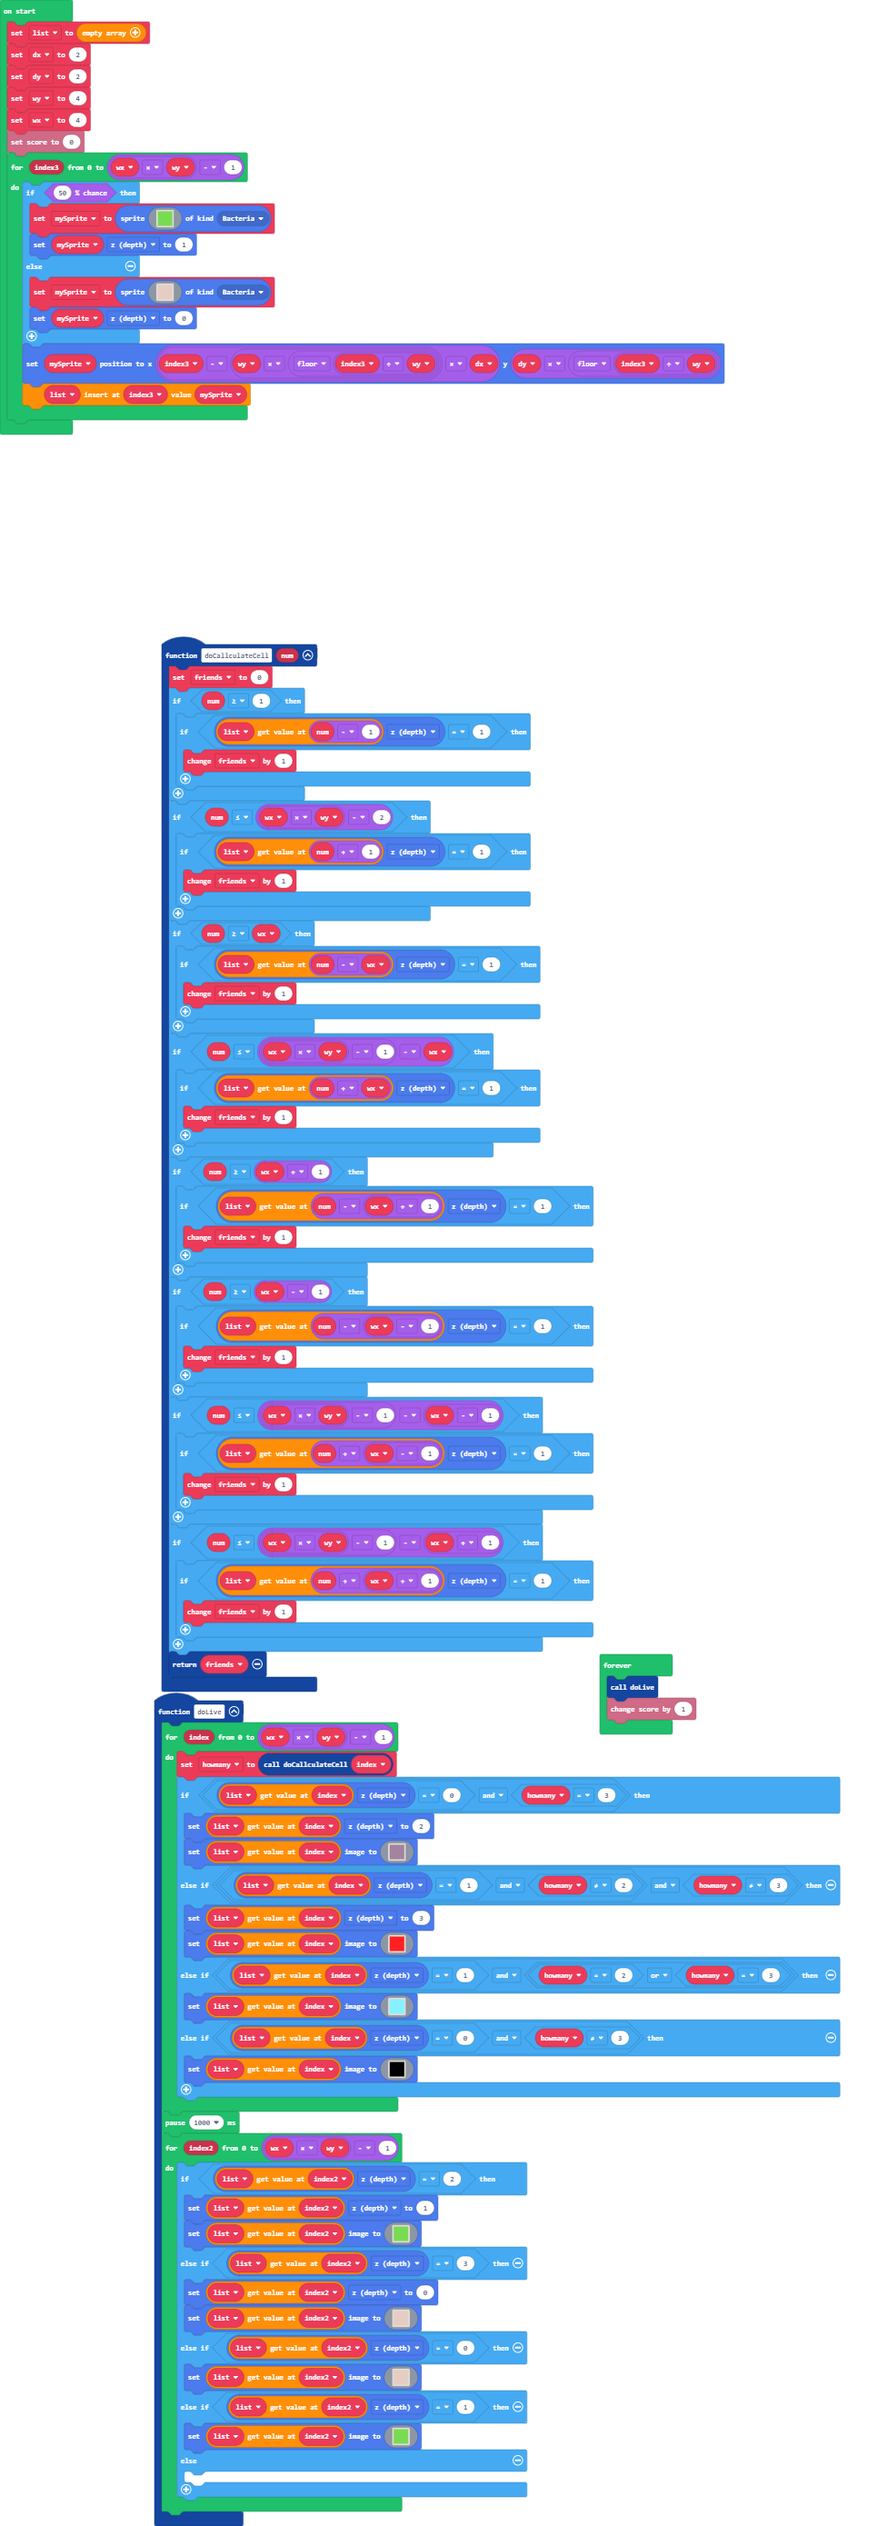
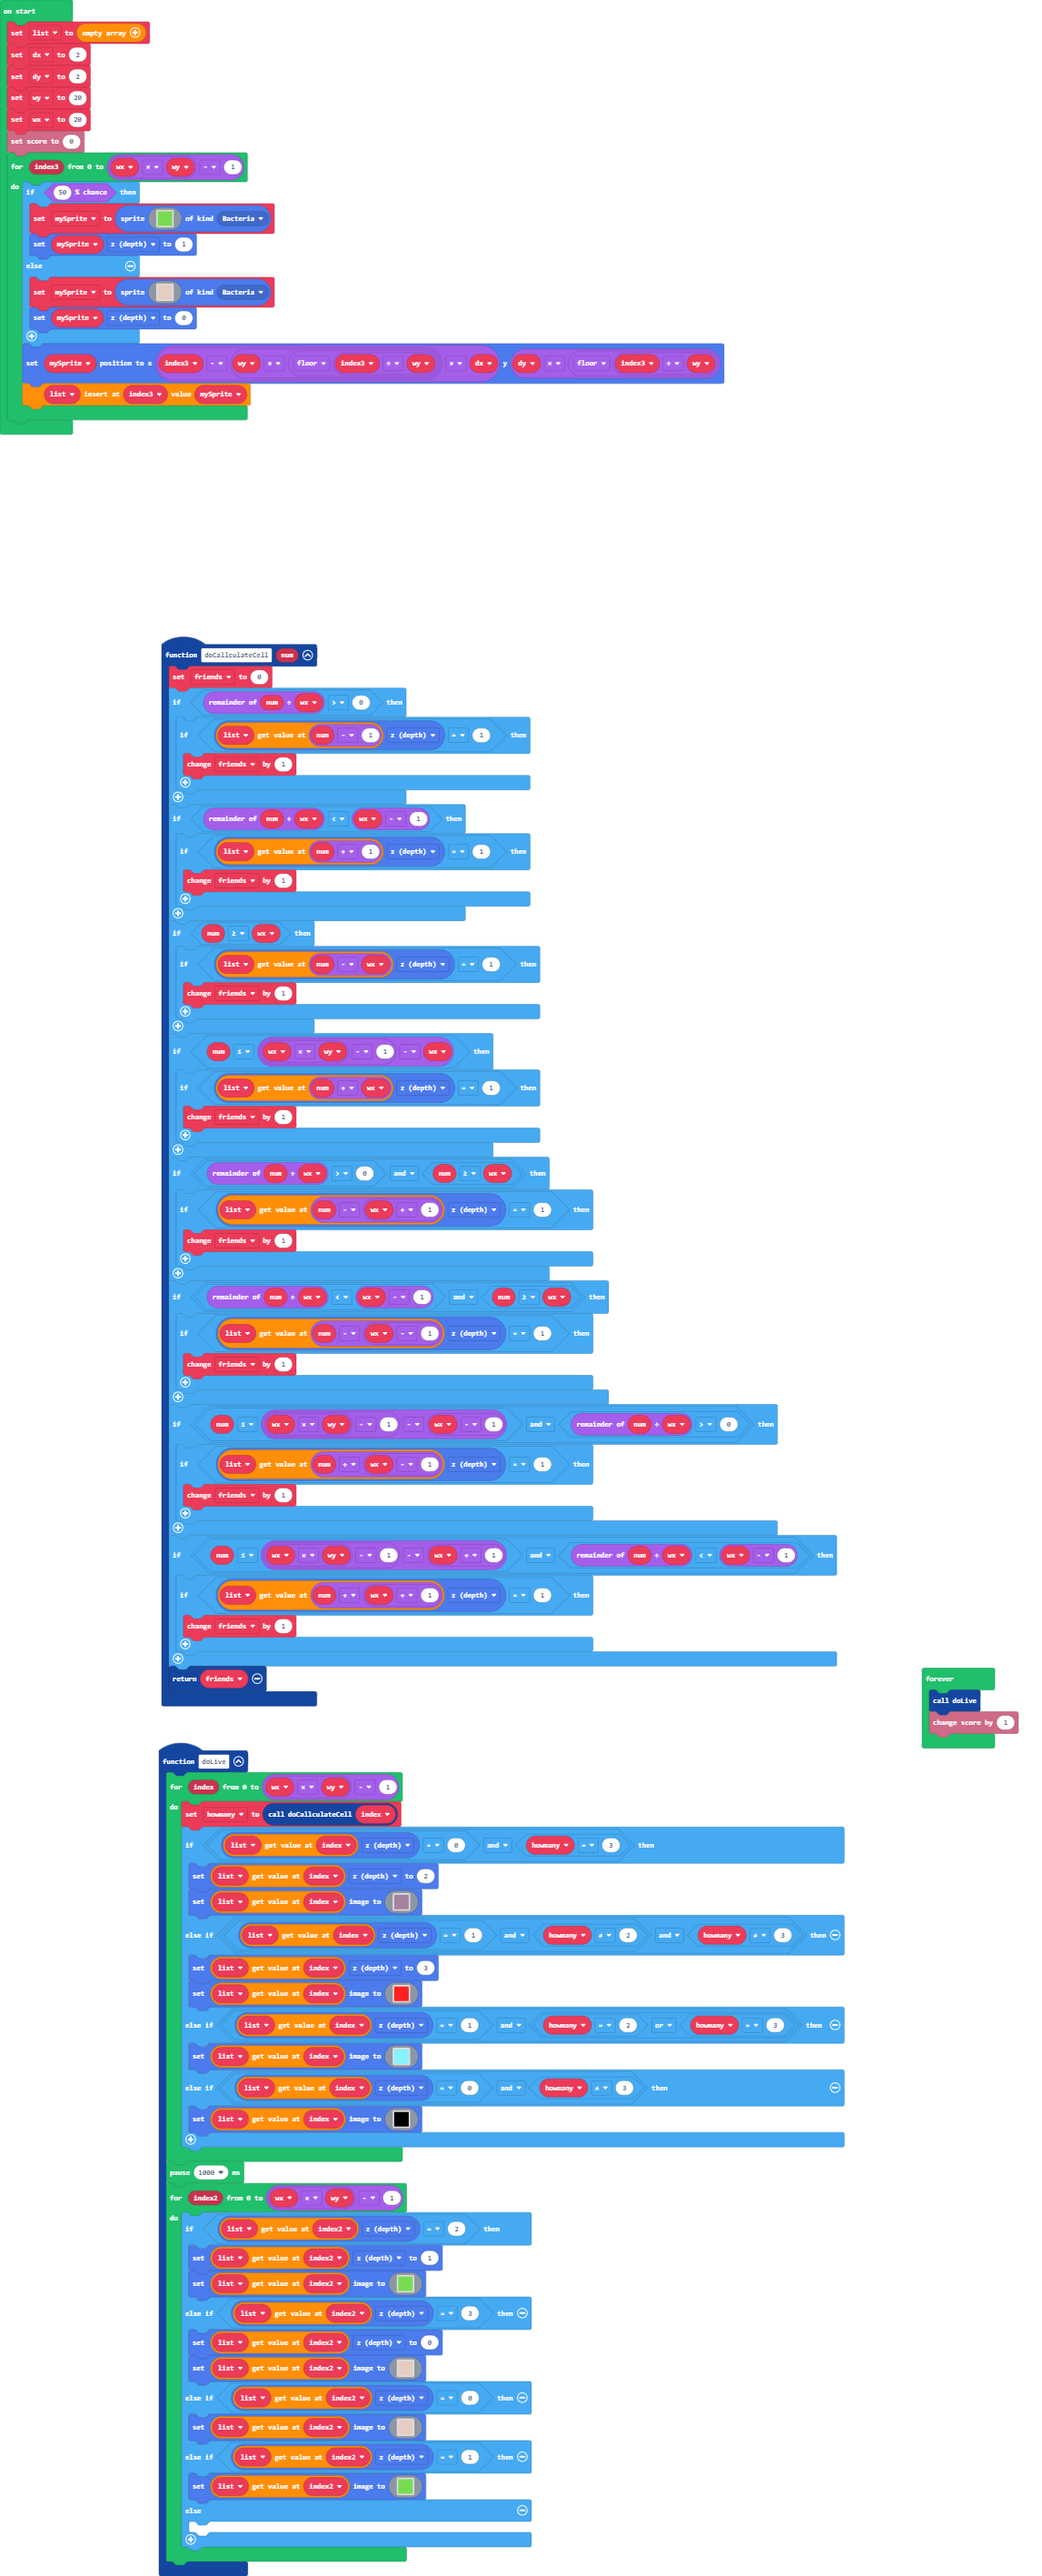
poprawione wyszukiwanie sasiadow

diff --git a/main.ts b/main.ts
@@ -3,12 +3,12 @@ namespace SpriteKind {
 }
 function doCallculateCell (num: number) {
     friends = 0
-    if (num >= 1) {
+    if (num % wx > 0) {
         if (list[num - 1].z == 1) {
             friends += 1
         }
     }
-    if (num <= wx * wy - 2) {
+    if (num % wx < wx - 1) {
         if (list[num + 1].z == 1) {
             friends += 1
         }
@@ -23,22 +23,22 @@ function doCallculateCell (num: number) {
             friends += 1
         }
     }
-    if (num >= wx + 1) {
+    if (num % wx > 0 && num >= wx) {
         if (list[num - (wx + 1)].z == 1) {
             friends += 1
         }
     }
-    if (num >= wx - 1) {
+    if (num % wx < wx - 1 && num >= wx) {
         if (list[num - (wx - 1)].z == 1) {
             friends += 1
         }
     }
-    if (num <= wx * wy - 1 - (wx - 1)) {
+    if (num <= wx * wy - 1 - (wx - 1) && num % wx > 0) {
         if (list[num + (wx - 1)].z == 1) {
             friends += 1
         }
     }
-    if (num <= wx * wy - 1 - (wx + 1)) {
+    if (num <= wx * wy - 1 - (wx + 1) && num % wx < wx - 1) {
         if (list[num + (wx + 1)].z == 1) {
             friends += 1
         }
@@ -110,8 +110,8 @@ let list: Sprite[] = []
 list = []
 let dx = 2
 let dy = 2
-wy = 4
-wx = 4
+wy = 20
+wx = 20
 info.setScore(0)
 for (let index3 = 0; index3 <= wx * wy - 1; index3++) {
     if (Math.percentChance(50)) {
